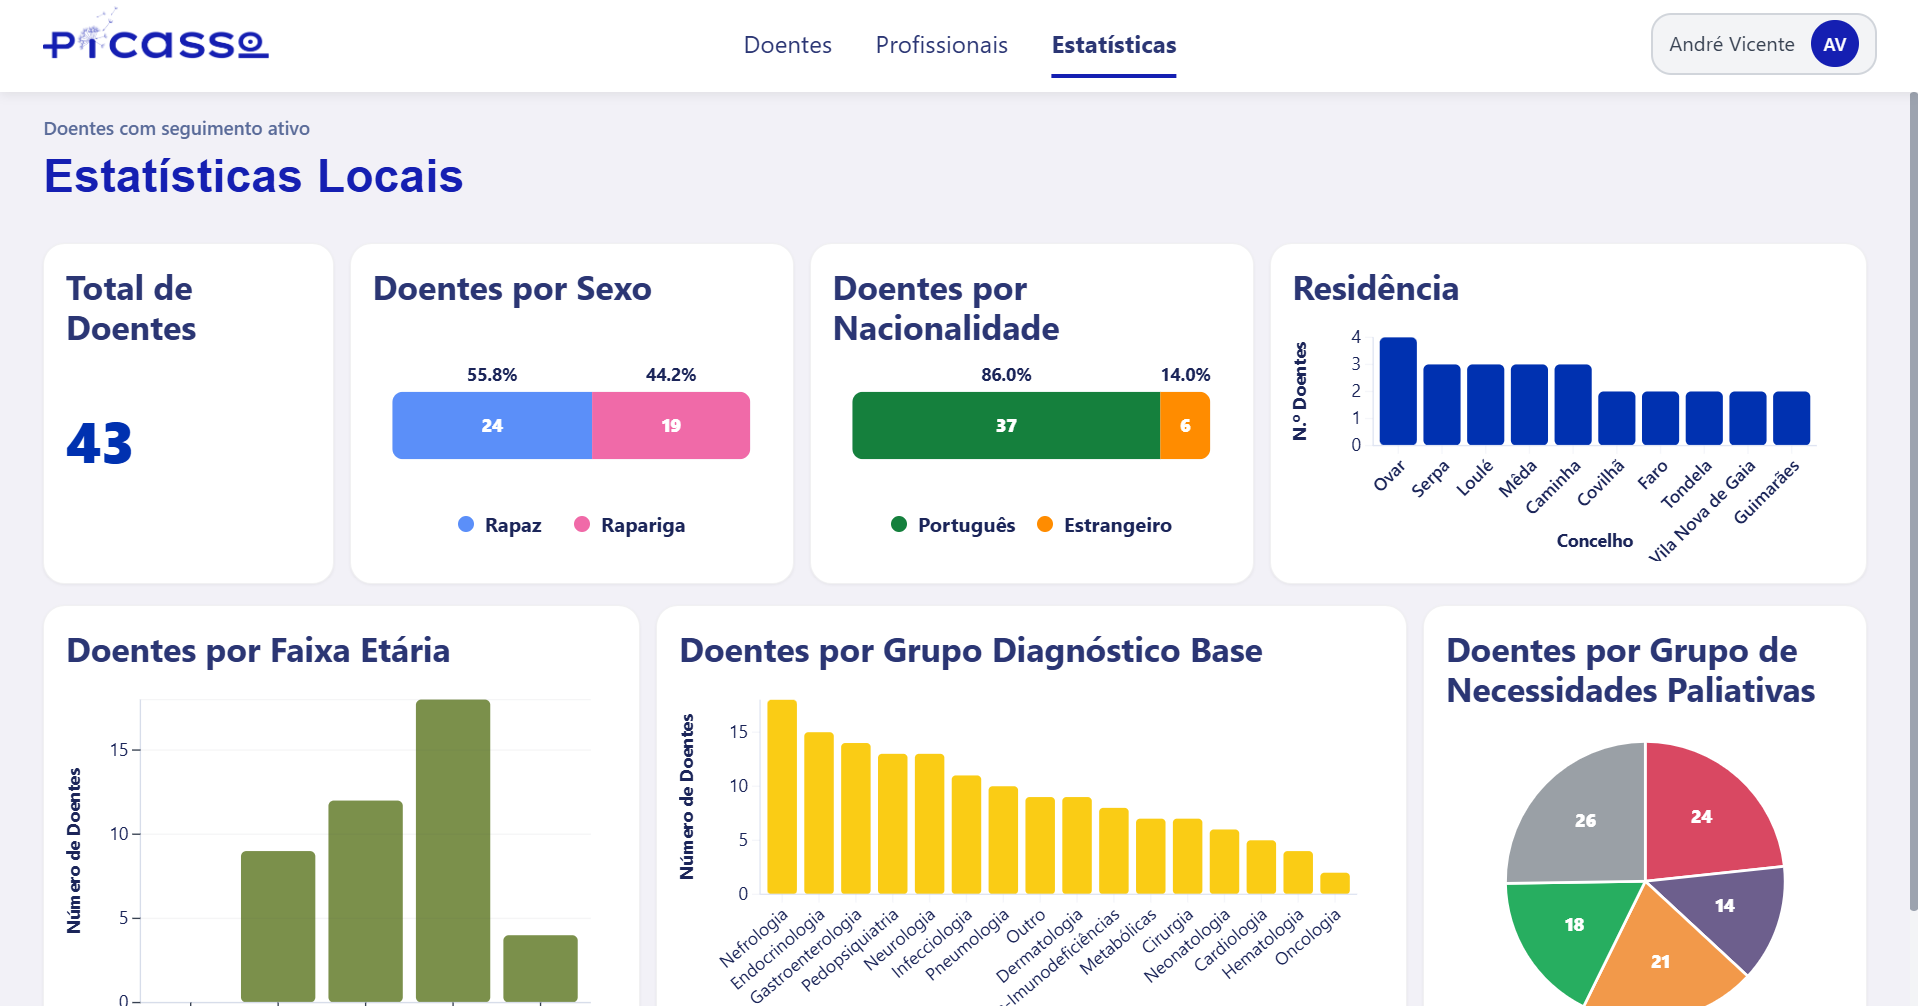
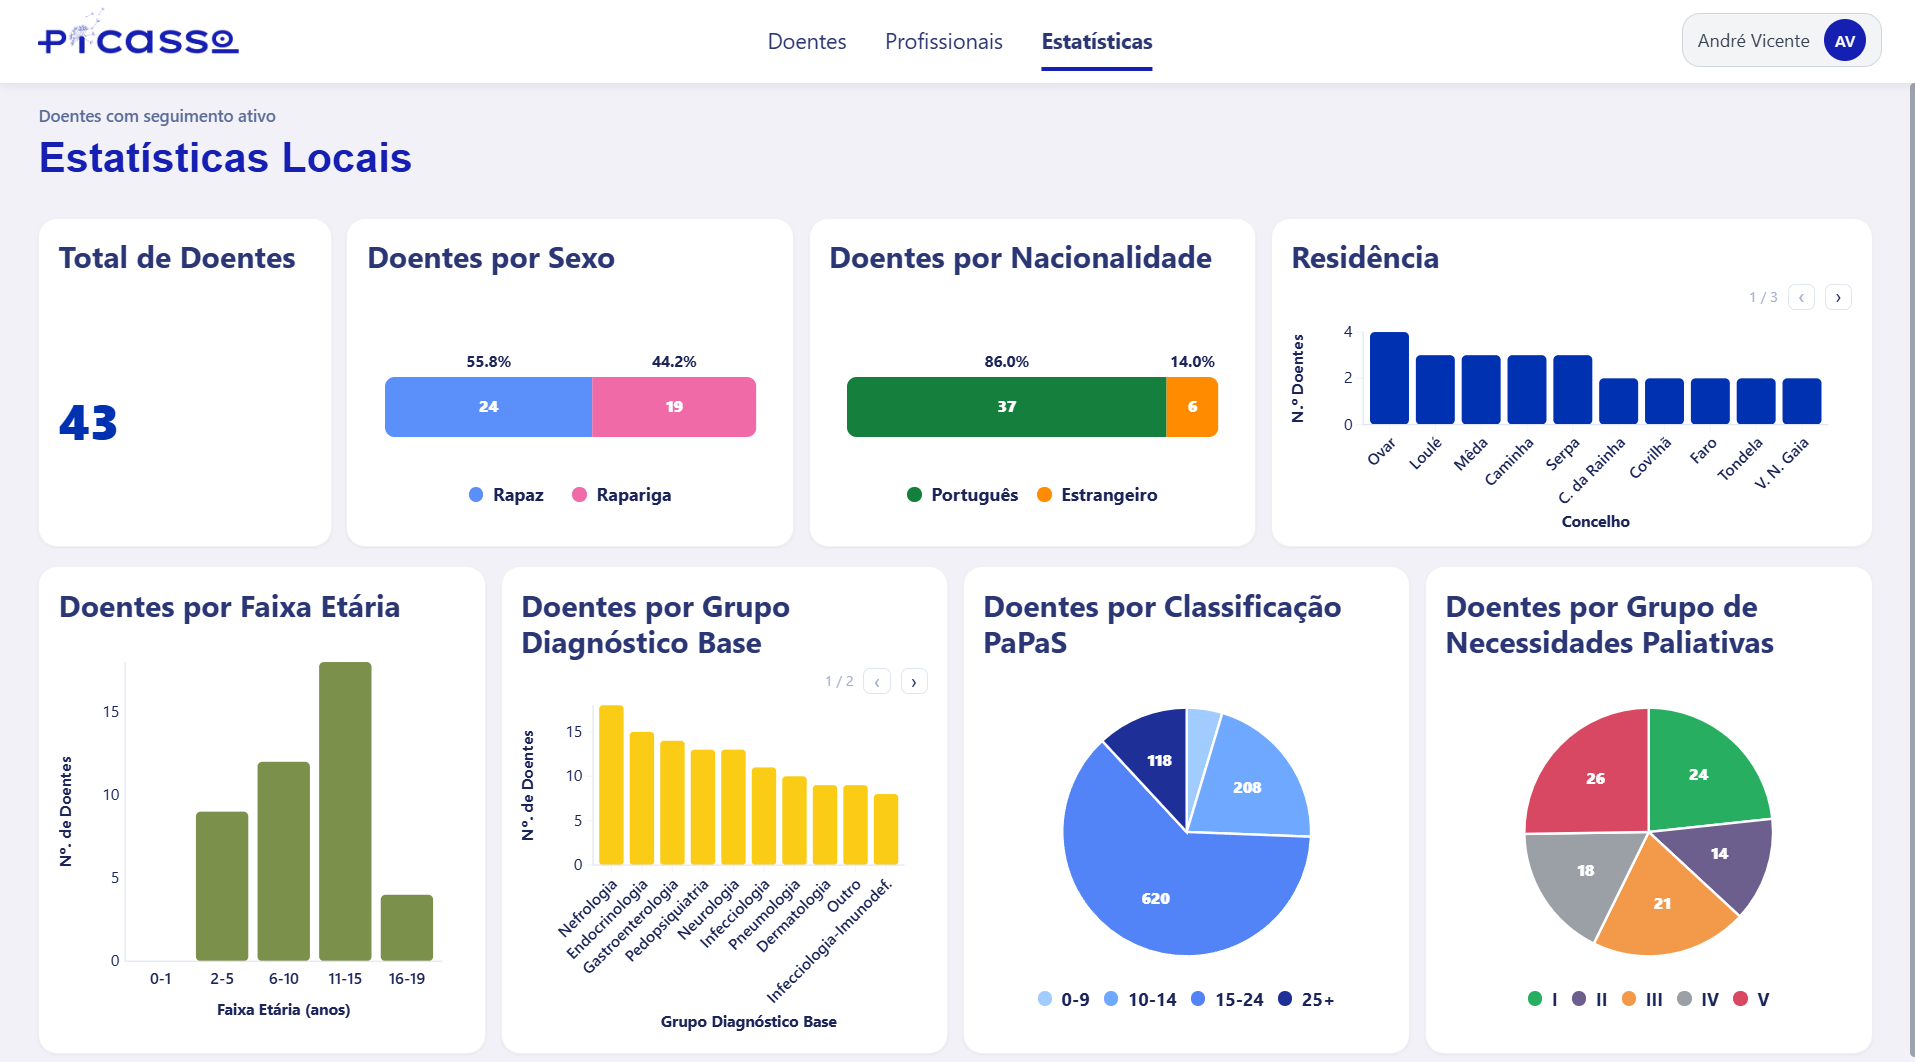
README added

diff --git a/team.html b/team.html
@@ -248,6 +248,7 @@
                             <h5>Contributions</h5>
                             <ul>
                                 <li>Graphical user interface design and implementation</li>
+                                <li>Iterative and user-centered development</li>
                                 <li>Project website design and implementation</li>
                             </ul>
                             <button class="flip-btn-back" onclick="flipCard('card-catarina')">
@@ -351,7 +352,7 @@
                         <svg xmlns="http://www.w3.org/2000/svg" width="1em" height="1em" fill="currentColor" viewBox="0 0 16 16" class="bi bi-envelope text-light" style="margin: 0 5px;">
                             <path d="M0 4a2 2 0 0 1 2-2h12a2 2 0 0 1 2 2v8a2 2 0 0 1-2 2H2a2 2 0 0 1-2-2zm2-1a1 1 0 0 0-1 1v.217l7 4.2 7-4.2V4a1 1 0 0 0-1-1zm13 2.383-4.708 2.825L15 11.105zm-.034 6.876-5.64-3.471L8 9.583l-1.326-.795-5.64 3.47A1 1 0 0 0 2 13h12a1 1 0 0 0 .966-.741M1 11.105l4.708-2.897L1 5.383z"></path>
                         </svg>
-                        <a class="link-body-emphasis" href="/cdn-cgi/l/email-protection#90e0f9f3f1e3e3ffd0f9fef5e3f3bdf9f4bee0e4"><span class="__cf_email__" data-cfemail="ccbca5afadbfbfa38ca5a2a9bfafe1a5a8e2bcb8">[email&#160;protected]</span></a>
+                        <a class="link-body-emphasis" href="mailto:picasso@inesc-id.pt">picasso@inesc-id.pt</a>
                     </p>
                 </div>
                 <div class="footer-logos">
@@ -367,7 +368,8 @@
                 </div>
             </div>
             <div class="footer-copyright">
-                <p class="text-body mb-0">Copyright © 2025 INESC-ID</p>            </div>
+                <p class="text-body mb-0">Copyright © 2025 INESC-ID</p>
+            </div>
         </div>
     </footer>
 

diff --git a/assets/css/components.css b/assets/css/components.css
@@ -579,6 +579,7 @@
   font-size: 1rem;
   color: var(--dark-text);
   text-align: center;
+  font-style: italic;
 }
 
 .functionality-label {

diff --git a/README.md b/README.md
@@ -1,0 +1,33 @@
+## Estrutura
+
+- Cada página do website é um ficheiro html separado
+
+- Páginas existentes:
+    - **index.html**: Visão geral do projeto, contexto e informações importantes
+    - **workplan.html**: Descrição das tarefas e objetivos principais
+    - **functionalities.html**: Funcionalidades da plataforma com screenshots
+    - **team.html**: Descrição dos membros da equipa e parceiros institucionais
+    - **events.html**: Workshops, apresentações e outros eventos específicos ao PiCaSSoPiCaSSo
+    - **resources.html**: Publicações, apresentações e outros recursos científicos relacionados com os temas de investigação do PiCaSSo
+    - **contact.html**: Detalhes de contacto
+
+- CSS personalizado dividido em três ficheiros (dentro de assets/css):
+    - **main.css**: definições globais e estilos básicos
+    - **components.css**: cards, badges e outros elementos reutilizáveis
+    - **sections.css**: regras de layout por secção
+
+- assets/img guarda as imagens que são usadas 
+
+- assets/logo guarda as diferentes versões do logo
+
+## Para fazer mudanças (guia para as mais prováveis)
+
+- **Nova página**: copiar um ficheiro HTML existente; atualizar a tag <title>; acrescentar nova página à secção da navbar, definir o nav-link atual como ativo e mudar a navbar nos outros ficheiros; mudar a informação do header e do div container container-content; deixar o footer igual;
+
+- **Novo membro da equipa**: adicionar um div team-card dentro do team.html seguindo o padrão existente
+
+- **Novo evento ou recurso**: adicionar um div document-card dentro da secção relevante em events.html ou resources.html (se necessário um div documents-section antes)
+
+- **Novo screenshot na página Funcionalidades**: colocar a imagem em assets/img/ e adicionar ou mudar um div screenshot-container em functionalities.html
+
+O site online https://picasso.inesc-id.pt/ é automaticamente atualizado diariamente com o conteúdo da branch main.
